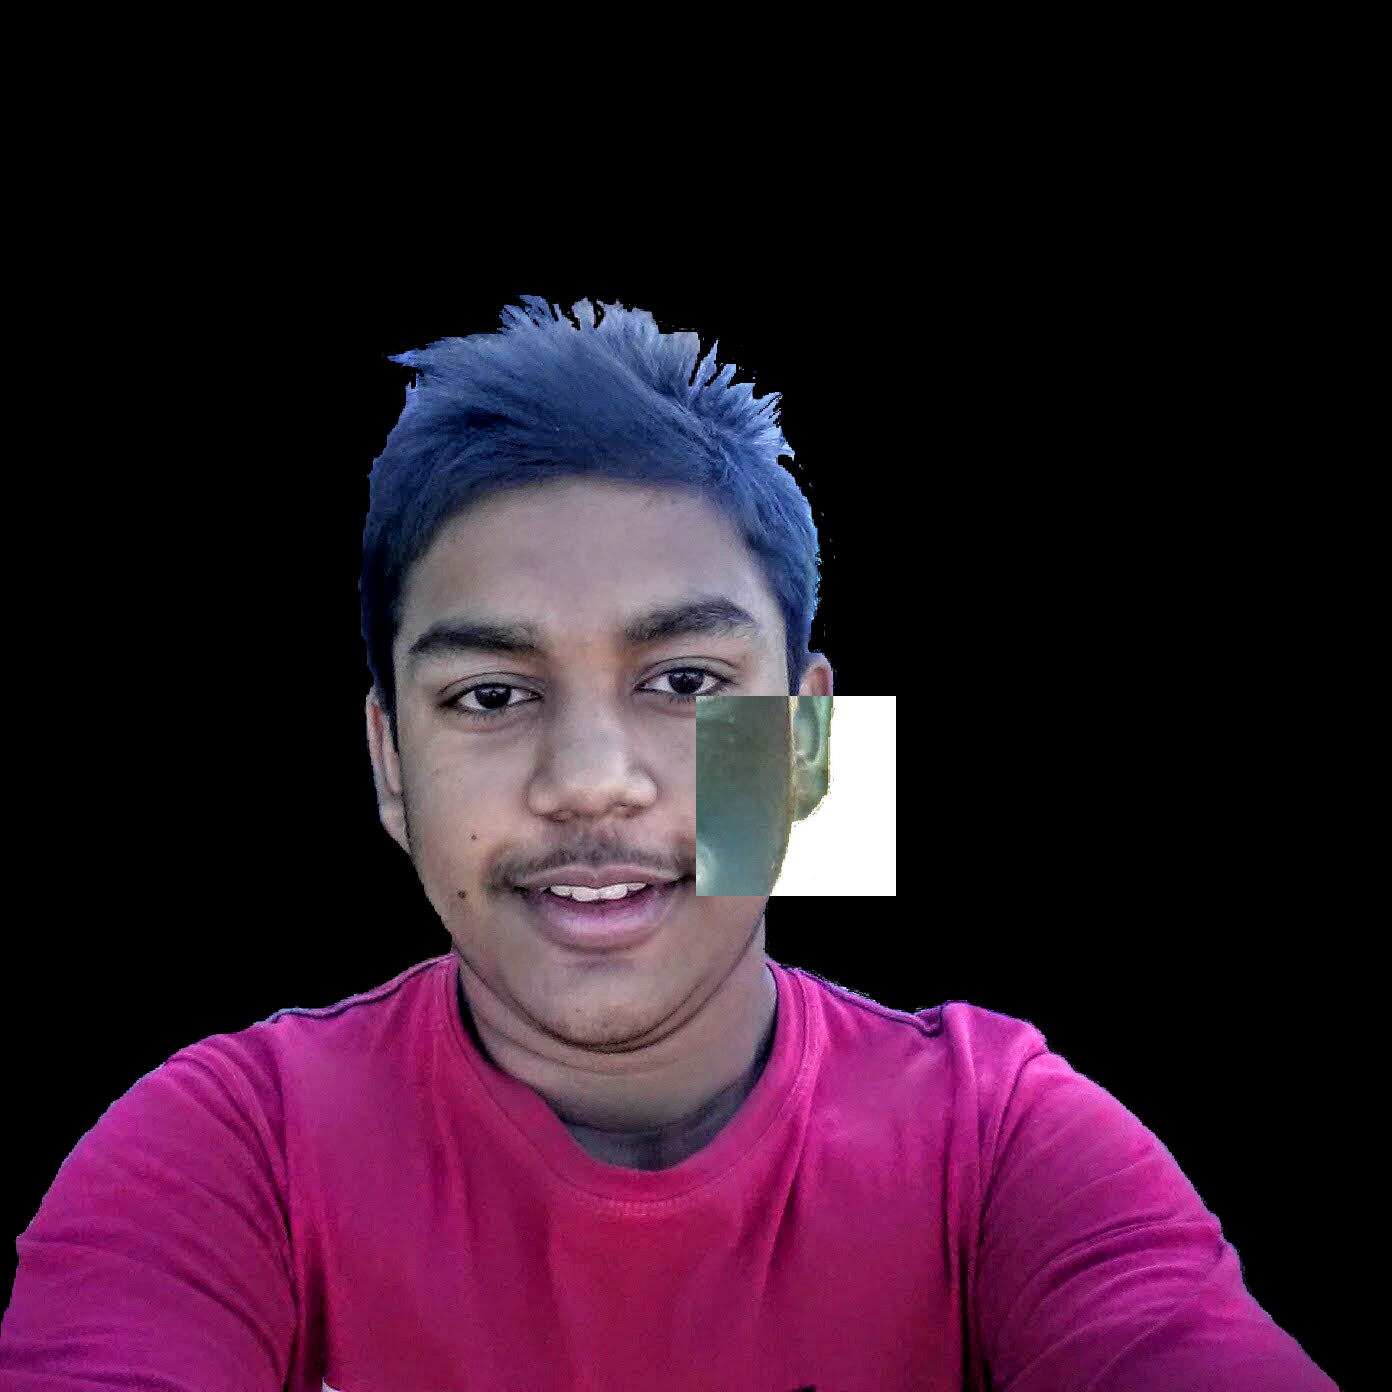
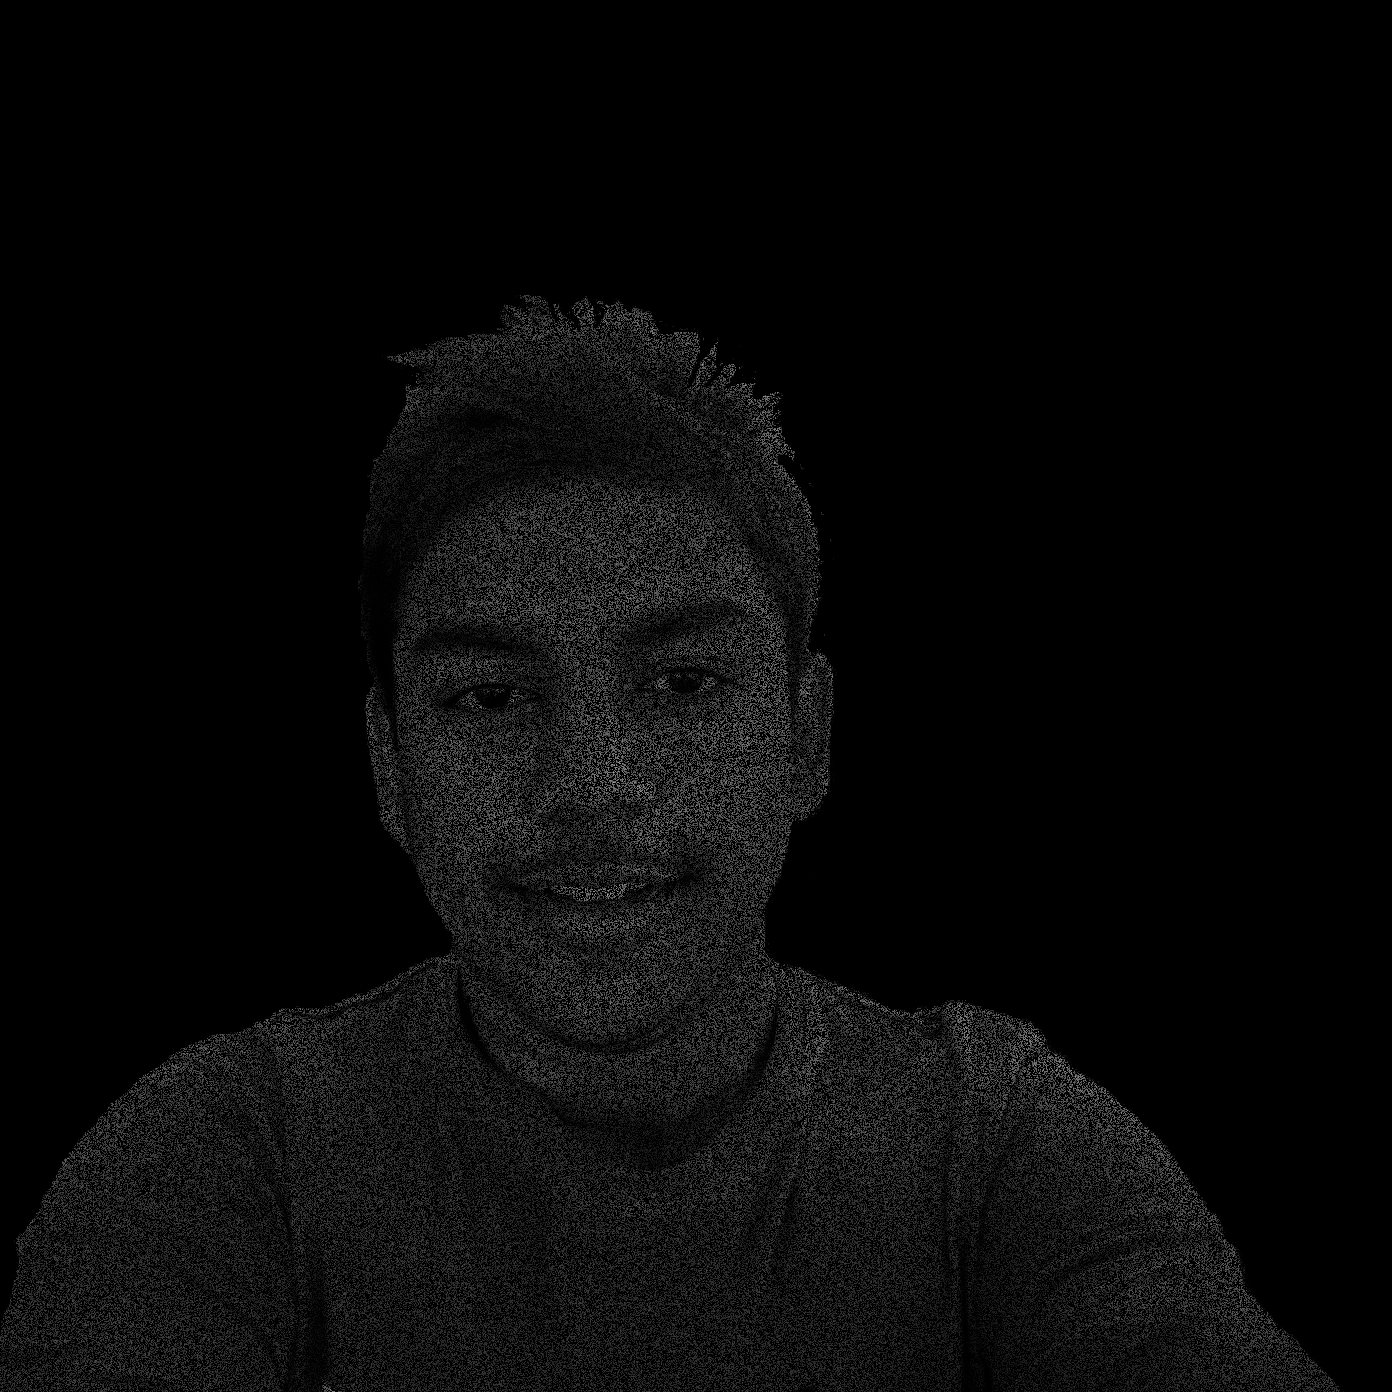
##8

diff --git a/Retrove/testing /filters/filter_im.py b/Retrove/testing /filters/filter_im.py
@@ -1,82 +1,147 @@
 from PIL import Image
-from random import randrange, triangular, choice
-
-imag = im = Image.open('/Users/atikul/Downloads/626201613142.png')
-pix = imag.load()
-print(imag.size)
-
-_imag_width = imag.size[0]
-_imag_height = imag.size[1]
+from random import triangular, choice
 
 
-# im = imag
-# draw = ImageDraw.Draw(im)
-
-# class Filter_image():
-#     def __self__(filename, filtername):
-
-def inverse_color(pix):
-    red = 255-pix[0]
-    green = 255-pix[1]
-    blue = 255-pix[2]
-    # return (green, blue, red)
-    return (red, green, blue)
-
-def inverse_pixalate_color(pix):
-    red = round(triangular(-1, pix[0]))
-    green = round(triangular(-1, pix[1]))
-    blue = round(triangular(-1, pix[2]))
-    return (choice([(0, 0, 0), (red, green, blue)]))
-
-
-def blue_filter(pix):
-    red = 255-pix[0]
-    green = 255-pix[1]
-    blue = 0
-    return (red, green, blue)
-
-
-def red_filter(pix):
-    red = 0
-    green = 255-pix[1]
-    blue = 255-pix[2]
-    return (red, green, blue)
-
-def green_filter(pix):
-    red = 255-pix[0]
-    green = 0
-    blue = 255-pix[2]
-    return (red, green, blue)
-
-def blacknwhite(pix):
-    average = (pix[0]+pix[0]+pix[0])/3
-    red = round(average)
-    green = round(average)
-    blue = round(average)
-    return (red, green, blue)
-
-
-def Hllp(var):
-    im[var[0], var[1]] = var
-
-
-def filter_im(filtername, x=0, y=0, width=_imag_width, height=_imag_height):
+class Filter_image():
     """
+    Filter_imag("626201613142.png")
     """
-    list(map(lambda y_cord: list(map(lambda x_cord: 
-        im.putpixel((x_cord, y_cord), (filtername(pix[x_cord, y_cord]))),
-        range(round(x),round(x+width)))), range(round(y),round(y+height))))
-    # imag = im
-    # pix = imag.load()
-    print(str(filtername.__name__), "Complete")
+
+    def __init__(self, filename):
+        self.filename = filename
+        self.filterstrings = [
+            'inverse',
+            'inverse_pix',
+            'blue',
+            'red',
+            'green',
+            'blacknwhite'
+        ]
+        self.filterfuncs = [
+            self.inverse_color,
+            self.inverse_pixalate_color,
+            self.blue_filter,
+            self.red_filter,
+            self.green_filter,
+            self.blacknwhite
+        ]
+        self.filterdict = dict(zip(self.filterstrings, self.filterfuncs))
+        self.imag = self.im = Image.open(str(filename))
+        self.pix = self.imag.load()
+        self.size = self.imag.size
+        self._width = self.size[0]
+        self._height = self.size[1]
+
+    def __repr__(self):
+        return f"Filter_imag({self.filename})"
+
+    def __str__(self):
+        return f"\nFilter_imag(\"{self.filename}\")\n\filter(\
+        [\"inverse_pix\", \"blacknwhite\", \"inverse_pix\"], \
+        x=0, y=0, width=200, height=400)\n"
+
+    def filter(self, filtername, x=0, y=0, width=0, height=0):
+        """
+        filter(["inverse_pix", "blacknwhite", "inverse_pix"], \
+        x=0, y=0, width=200, height=400) 
+        """
+
+        """
+        'inverse',
+        'inverse_pix',
+        'blue',
+        'red',
+        'green',
+        'blacknwhite'
+
+        #################
+        list of filters
+        """
+        self.x = x
+        self.y = y
+        self.width = width if width != 0 else self.size[0]
+        self.height = height if height != 0 else self.size[1]
+        self.filtername = filtername
+        list(map(lambda _filter:
+                 list(map(lambda y_cord:
+                          list(map(lambda x_cord:
+                                   self.im.putpixel((x_cord, y_cord),
+                                                    (self.filterdict[_filter](self.pix[x_cord, y_cord]))),
+                                   range(round(self.x), round(self.x+self.width)))),
+                          range(round(self.y), round(self.y+self.height)))), self.filtername))
+
+        self.save()
+        print(str(filtername), "Complete")
+        # print(self.imag.size)
+
+    @staticmethod
+    def inverse_color(pix):
+        red = 255-pix[0]
+        green = 255-pix[1]
+        blue = 255-pix[2]
+        # return (green, blue, red)
+        return (red, green, blue)
+
+    @staticmethod
+    def inverse_pixalate_color(pix):
+        red = round(triangular(-1, pix[0]))
+        green = round(triangular(-1, pix[1]))
+        blue = round(triangular(-1, pix[2]))
+        return (choice([(0, 0, 0), (red, green, blue)]))
+
+    @staticmethod
+    def blue_filter(pix):
+        red = 255-pix[0]
+        green = 255-pix[1]
+        blue = 0
+        return (red, green, blue)
+
+    @staticmethod
+    def red_filter(pix):
+        red = 0
+        green = 255-pix[1]
+        blue = 255-pix[2]
+        return (red, green, blue)
+
+    @staticmethod
+    def green_filter(pix):
+        red = 255-pix[0]
+        green = 0
+        blue = 255-pix[2]
+        return (red, green, blue)
+
+    @staticmethod
+    def blacknwhite(pix):
+        average = (pix[0]+pix[1]+pix[2])/3
+        red = round(average)
+        green = round(average)
+        blue = round(average)
+        return (red, green, blue)
+
+    def show(self):
+        self.im.show()
+
+    def save(self):
+        self.im.save("wall.png")
 
 
-filter_im(inverse_color, _imag_width/2, _imag_height/2, 200,200)
-# filter_im(blacknwhite)
-# filter_im(blue_filter)
-# filter_im(red_filter)
-# filter_im(green_filter)
-# filter_im(blacknwhite)
+"""
+'inverse',
+'inverse_pix',
+'blue',
+'red',
+'green',
+'blacknwhite'
+"""
 
-im.save("wall.png")
-im.show()
+
+def sample():
+    filter_im = Filter_image("/Users/atikul/Downloads/626201613142.png")
+
+    filter_im.filter(["inverse_pix", "blacknwhite"], 0, 0,
+                     filter_im.size[0], filter_im.size[1])
+    filter_im.show()
+
+
+if __name__ == "__main__":
+    sample()
